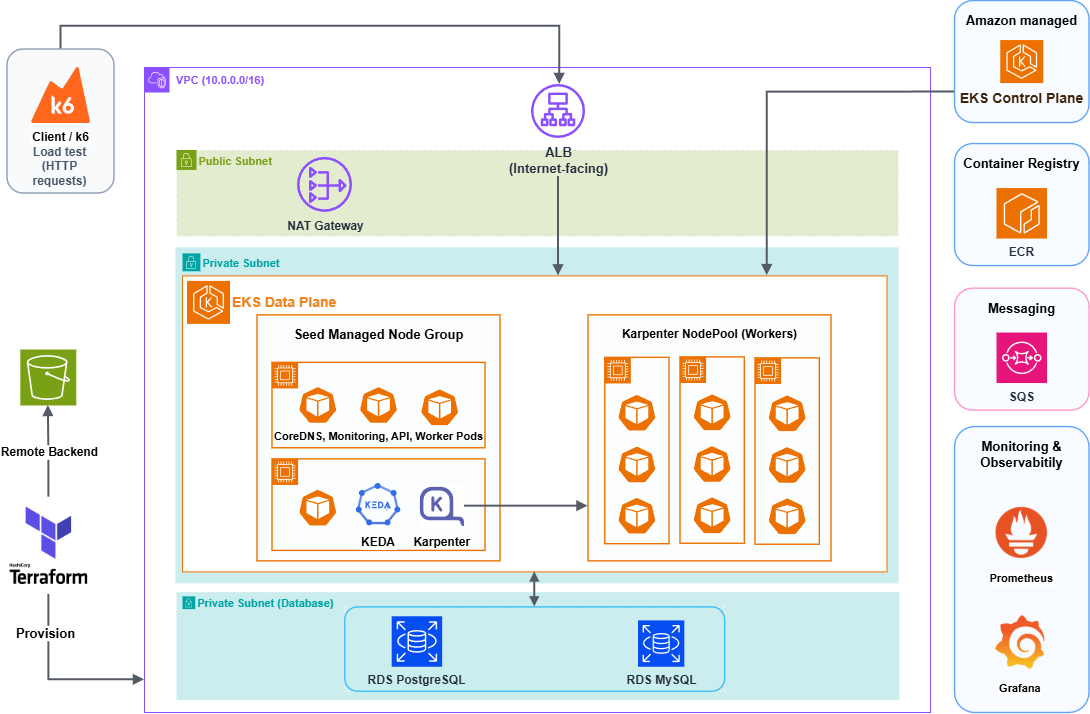
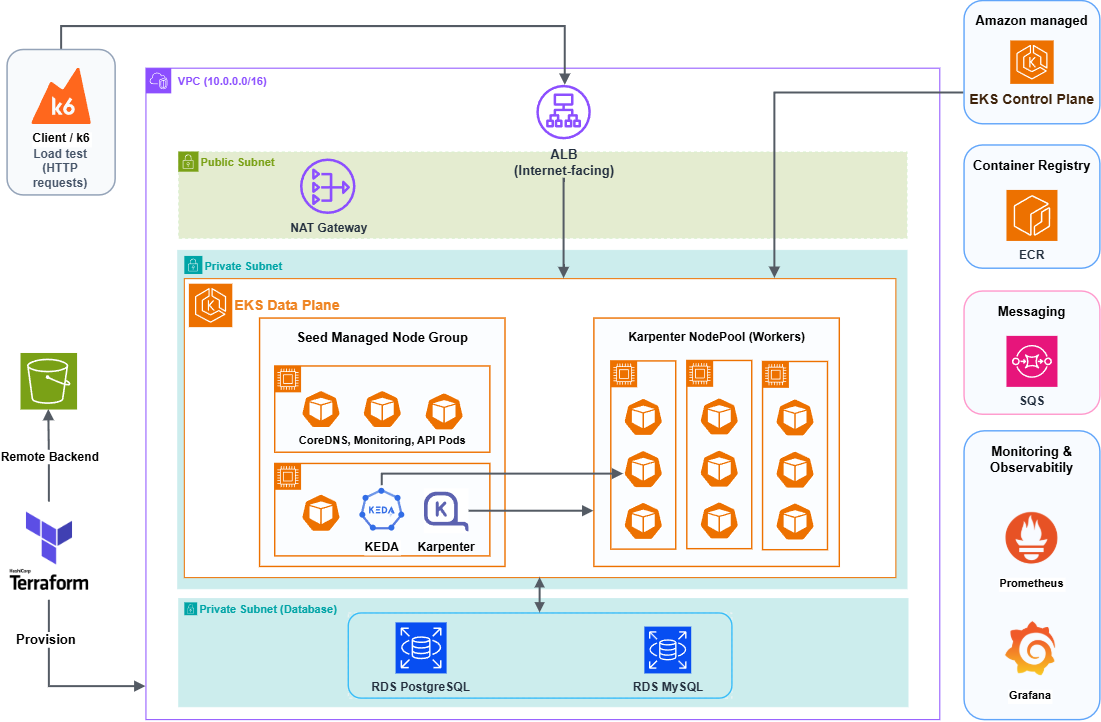
chore: change infrastructure image and add workflow image

diff --git a/README.md b/README.md
@@ -1,6 +1,6 @@
 # Two-Level Autoscaling for Event-Driven Microservices
 
-This repository is the infrastructure and orchestration hub for the **Two-Level Autoscaling on Amazon EKS** project. It contains Terraform for AWS infrastructure and optional monitoring, plus Kubernetes manifests for application deployment.
+This repository is the infrastructure and orchestration hub for the **Two-Level Autoscaling for Event-Driven Microservices on Amazon EKS** project. It contains Terraform for AWS infrastructure and optional monitoring, plus Kubernetes manifests for application deployment.
 
 ## Project Overview
 
@@ -12,9 +12,11 @@ The architecture implements a two-level elasticity model:
 
 This repository provisions the underlying AWS platform and coordinates the deployment, scaling policies, and benchmarking experiments across the entire ecosystem.
 
-## System Architecture
+## System Architecture & Workflow
 
 ![System Architecture](assets/infrastructure.png)
+
+![Workflow](assets/workflow.png)
 
 **Core Data Flow:** 
 `Traffic (k6)` → `Producer API` → `Amazon SQS` → `Worker Pods (Scaled by KEDA)` → `EC2 Nodes (Provisioned by Karpenter)`
